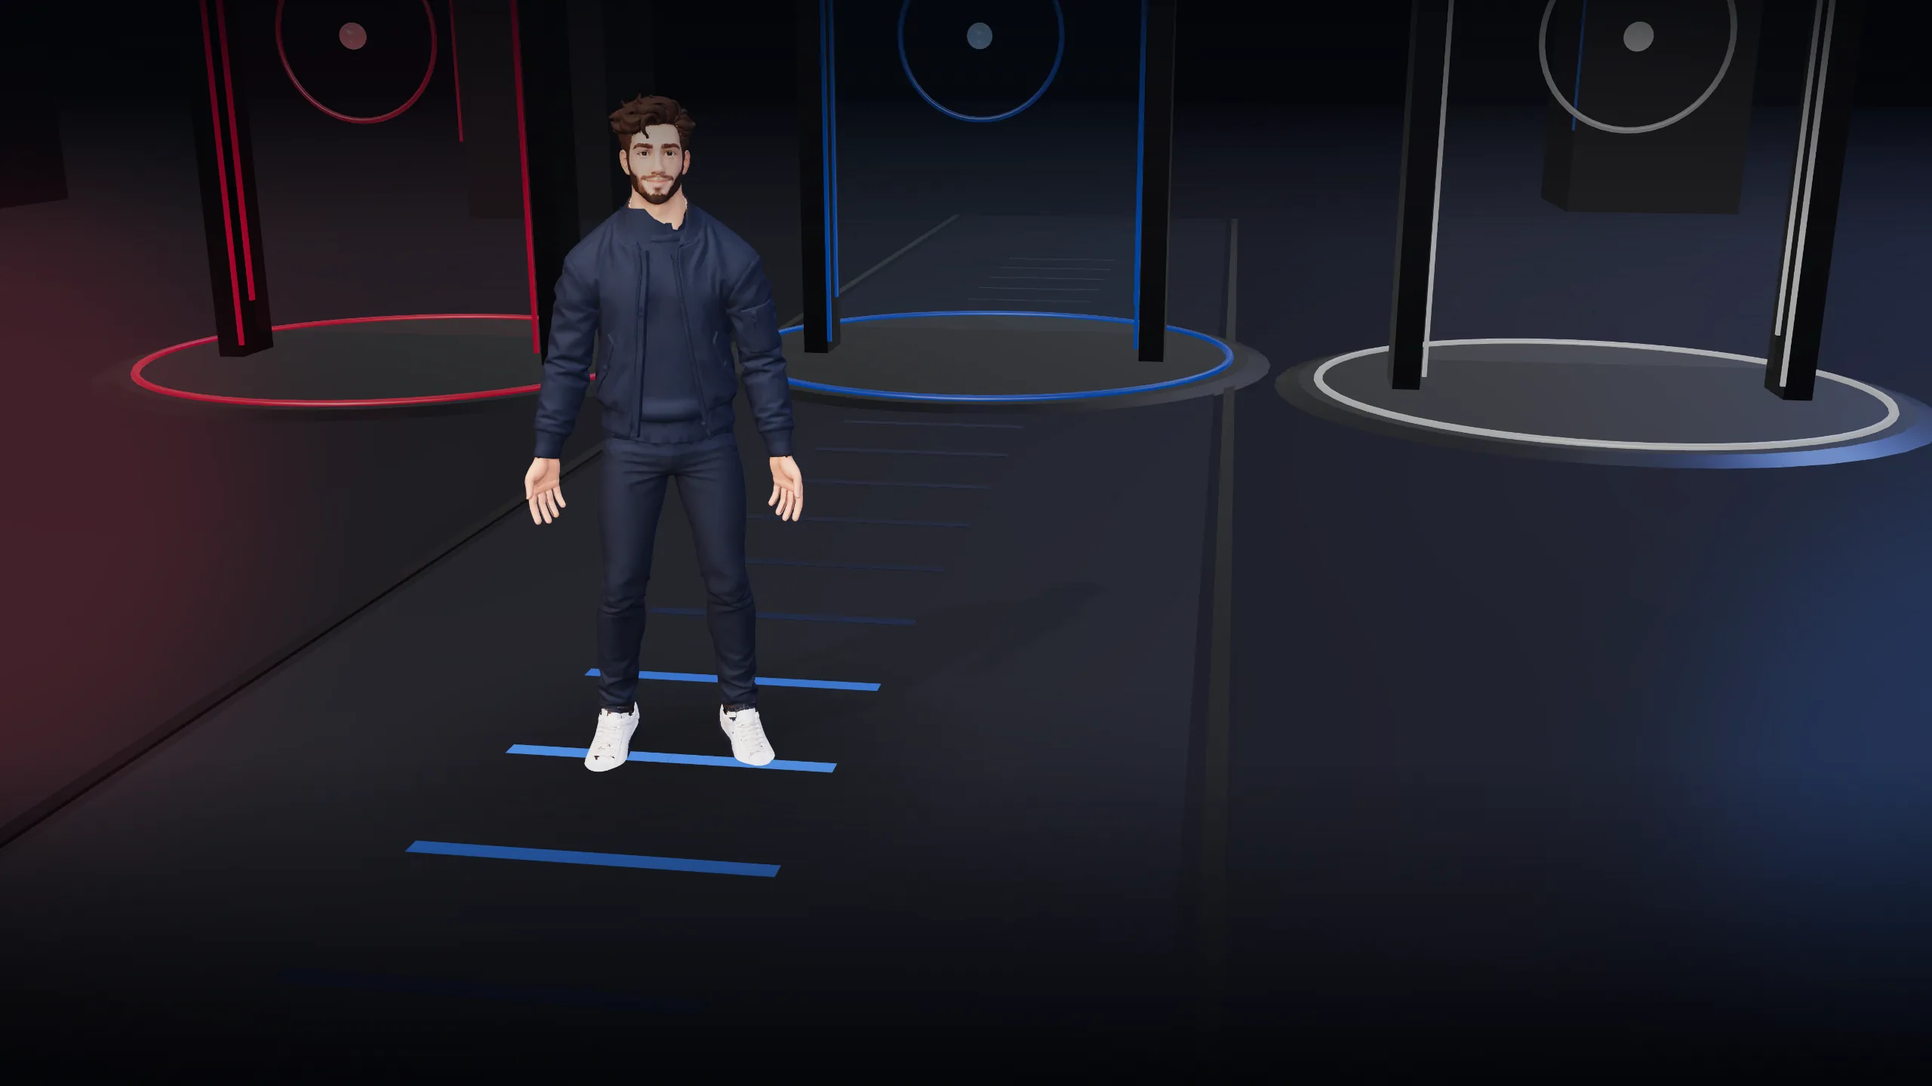
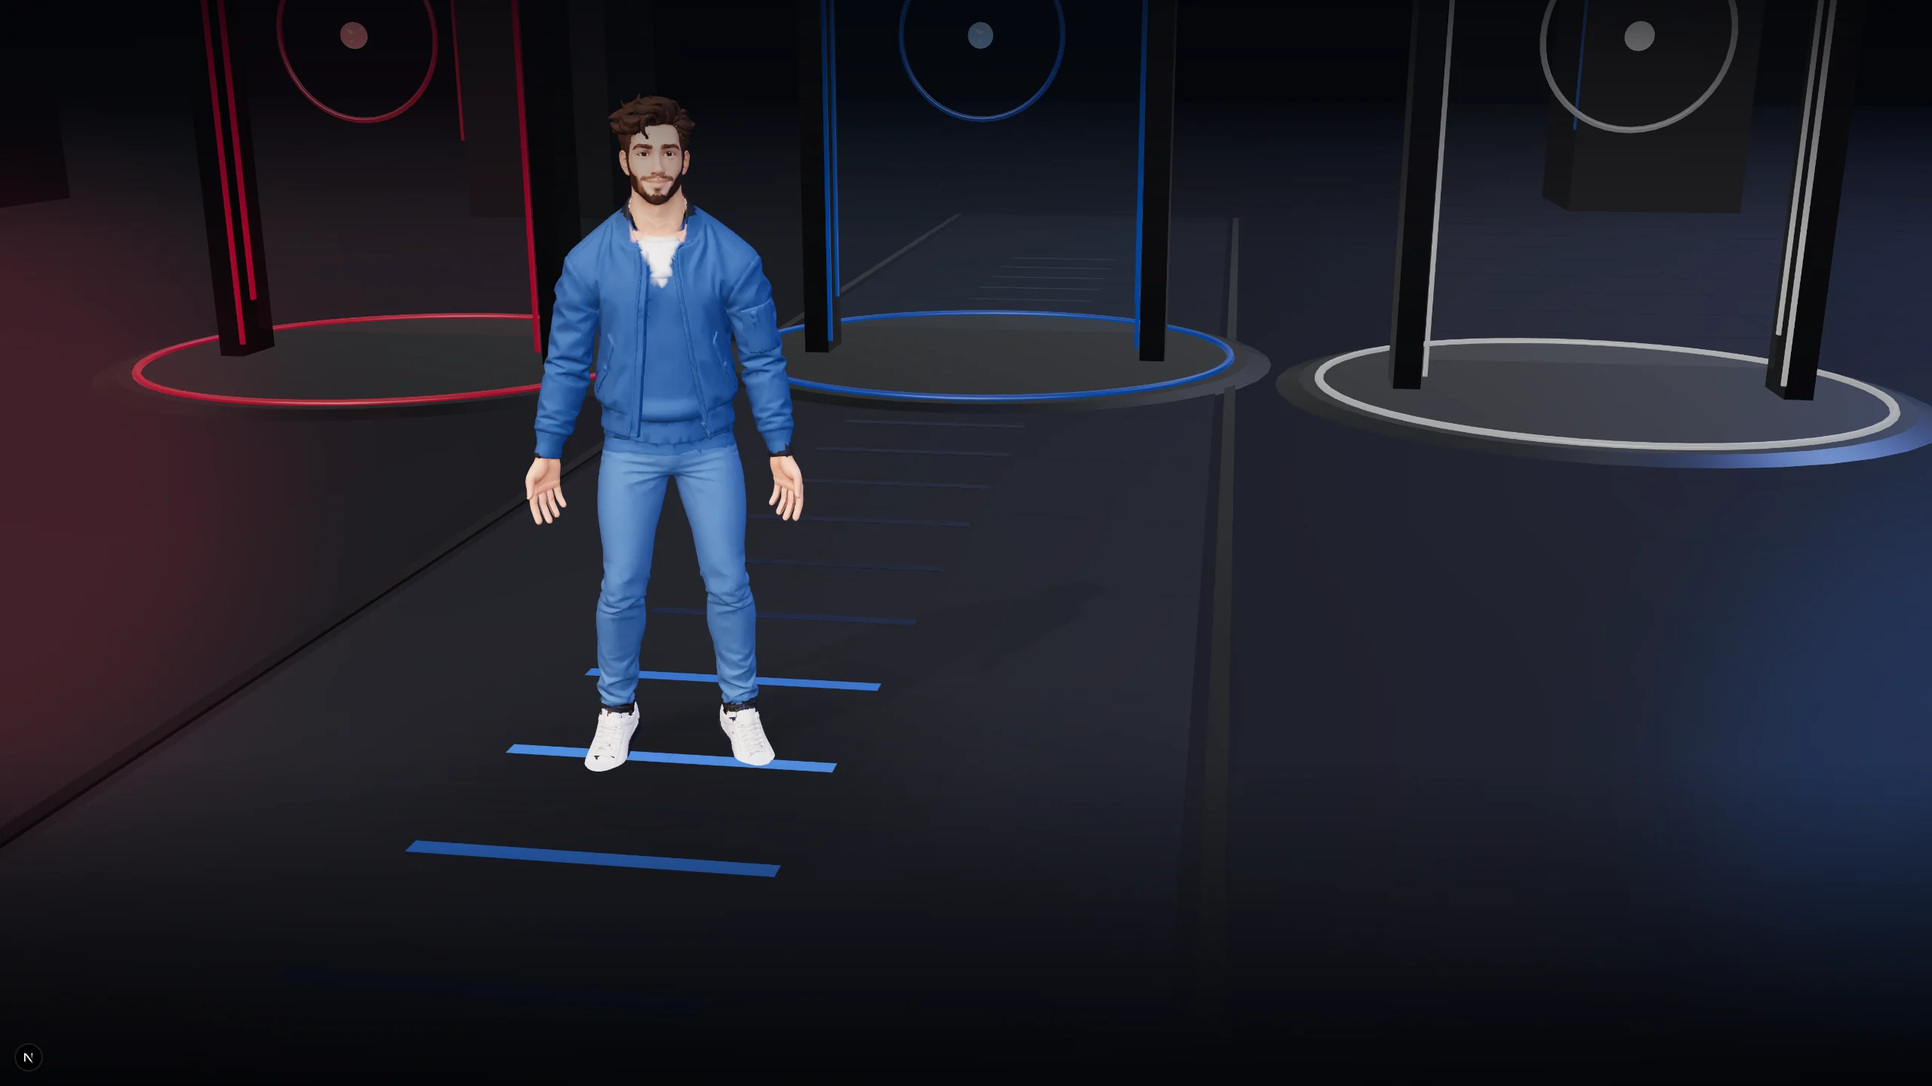
Recolour guide outfit and add white tee V

diff --git a/web/components/CinematicIntro.tsx b/web/components/CinematicIntro.tsx
@@ -232,36 +232,40 @@ function createIdleClip(root: THREE.Object3D, walkClip: THREE.AnimationClip): TH
   return new THREE.AnimationClip("student-idle", duration, tracks);
 }
 
-// The GLB's neckline seam is low-poly and jagged once the scrambled atlas is
-// replaced by flat materials. A narrow navy band gives the bomber a clean
-// mock-neck underlayer and covers that seam without changing the rig.
-function addCollarBand(model: THREE.Object3D): void {
-  const geometry = new THREE.CylinderGeometry(0.075, 0.09, 0.08, 32, 1, true);
-  const band = new THREE.Mesh(
-    geometry,
-    new THREE.MeshStandardMaterial({
-      color: 0x1c2638,
-      roughness: 0.9,
-      metalness: 0,
-      envMapIntensity: 0.35,
-      side: THREE.DoubleSide,
-      dithering: true,
-    }),
-  );
-  band.position.set(0, 1.44, 0.015);
-  band.castShadow = false;
-  band.receiveShadow = true;
-  band.name = "clean-bomber-collar";
-  model.add(band);
-}
+// Model geometry is stored in normalized units (-1..1) mapped onto 0..1.8 m,
+// so raw y converts to local/world y as (raw + 1) * 0.9 and raw x/z scale by
+// 0.9. The values in these helpers were measured directly from the GLB
+// position data so the shapes hug the real mesh instead of guessing.
+
+// The raw mesh has a 5-ish cm band around the neck base where the head skin
+// and the jacket collar interleave jaggedly (measured: red dips to raw y 0.633
+// while the collar peaks at 0.695). Any overlay tall enough to cover that band
+// reads as a turtleneck — the “jacket clubbed with neck” complaint. Instead,
+// the collar vertices in this band are tinted with the face skin tone
+// (#d99479) and feathered into the jacket, so the seam becomes a soft skin
+// transition into the collar below raw y 0.618 without a material-group edge.
+const NECK_SEAM_BAND = { y0: 0.618, y1: 0.718, halfWidth: 0.07 };
+
+// The jacket front only parts in a shallow V under the collar, so a separate
+// floating shirt mesh either hid behind the lapels or clipped through them.
+// Instead the jacket's own vertices are tinted white inside that V. A material
+// group split left a hard, triangular sawtooth edge that read as a tear in
+// close-up; blending the tint per vertex keeps the shirt edge soft while the
+// geometry still deforms with the rig. Raw-y bounds: a point at the sternum
+// widening to the neck.
+const TEE_V = { y0: 0.5, y1: 0.618, bottomHalfWidth: 0.012, topHalfWidth: 0.062 };
+const TEE_FEATHER = 0.012;
 
 // The source atlas is not a coherent garment layout: jacket triangles sample
 // hair, skin and knit-top islands, which is what produced the brown seam
 // “tears” and the dark flecks on the white top. Rather than keep chasing UVs,
 // the body clothing gets clean stylized materials. Head, hands and shoes keep
 // the original textured material so the face, hair, beard and skin detail stay.
-// The upper body is rendered as a clean navy bomber over a dark mock neck; the
-// neckline band hides the low-poly collar seam that the flat materials expose.
+// The upper body is rendered as a clean blue bomber with jeans in a lighter
+// denim blue. The neck seam is feathered with a vertex skin tint (NECK_SEAM_BAND)
+// so the collar reads as separate from the neck, and the jacket's V opening is
+// tinted white for the t-shirt (TEE_V). Both boundaries blend per vertex, so
+// they stay soft in close-up instead of following triangle edges.
 function installCleanClothing(model: THREE.Object3D): void {
   model.traverse((object) => {
     const mesh = object as THREE.Mesh;
@@ -330,6 +334,47 @@ function installCleanClothing(model: THREE.Object3D): void {
     }
     if (groups[1].length + groups[2].length === 0) return;
 
+    // Smooth white tee tint inside the V. The falloff is a few centimetres so
+    // the neckline reads as fabric in shadow, not a paint boundary.
+    const jacketColour = new THREE.Color(0x275285);
+    const teeColour = new THREE.Color(0xf1efe7);
+    const skinColour = new THREE.Color(0xd99479);
+    const vertexColour = new THREE.Color();
+    const colours = new Float32Array(position.count * 3);
+    for (let vertex = 0; vertex < position.count; vertex += 1) {
+      const x = position.getX(vertex);
+      const y = position.getY(vertex);
+      const z = position.getZ(vertex);
+      const taper = clamp((y - TEE_V.y0) / (TEE_V.y1 - TEE_V.y0));
+      const halfWidth =
+        TEE_V.bottomHalfWidth + (TEE_V.topHalfWidth - TEE_V.bottomHalfWidth) * taper;
+      const across = smoothstep(clamp((halfWidth - Math.abs(x)) / TEE_FEATHER));
+      const top = smoothstep(clamp((TEE_V.y1 - y) / 0.008));
+      const bottom = smoothstep(clamp((y - TEE_V.y0) / 0.008));
+      const front = z > 0.003 ? 1 : 0;
+      const teeMask = across * top * bottom * front;
+
+      // The neck band replaces the old flat-skin material group. Painting the
+      // collar vertices skin and feathering into the jacket removes the hard
+      // pink sawtooth that material boundaries left at the collar.
+      const skinAcross = smoothstep(
+        clamp((NECK_SEAM_BAND.halfWidth - Math.abs(x)) / 0.005),
+      );
+      const skinBottom = smoothstep(
+        clamp((y - (NECK_SEAM_BAND.y0 - 0.006)) / 0.006),
+      );
+      const skinTop = smoothstep(clamp((NECK_SEAM_BAND.y1 - y) / 0.006));
+      const skinFront = z > -0.005 ? 1 : 0;
+      const skinMask = skinAcross * skinBottom * skinTop * skinFront;
+
+      vertexColour
+        .copy(jacketColour)
+        .lerp(teeColour, teeMask)
+        .lerp(skinColour, skinMask);
+      vertexColour.toArray(colours, vertex * 3);
+    }
+    geometry.setAttribute("color", new THREE.BufferAttribute(colours, 3));
+
     const index = new Uint32Array(original.length);
     let cursor = 0;
     const starts: number[] = [];
@@ -342,7 +387,8 @@ function installCleanClothing(model: THREE.Object3D): void {
     });
 
     const jacket = new THREE.MeshStandardMaterial({
-      color: 0x1c2638,
+      color: 0xffffff,
+      vertexColors: true,
       roughness: 0.88,
       metalness: 0,
       envMapIntensity: 0.35,
@@ -350,14 +396,13 @@ function installCleanClothing(model: THREE.Object3D): void {
       dithering: true,
     });
     const pants = new THREE.MeshStandardMaterial({
-      color: 0x18202f,
+      color: 0x3f699c,
       roughness: 0.92,
       metalness: 0,
       envMapIntensity: 0.3,
       side: THREE.DoubleSide,
       dithering: true,
     });
-
     geometry.setIndex(new THREE.BufferAttribute(index, 1));
     geometry.clearGroups();
     groups.forEach((group, groupIndex) => {
@@ -568,7 +613,6 @@ export default function CinematicIntro({ onComplete }: Props) {
       scene.fog = new THREE.FogExp2(0x05060a, isMobile ? 0.034 : 0.029);
 
       const camera = new THREE.PerspectiveCamera(34, window.innerWidth / window.innerHeight, 0.04, 120);
-
       try {
         pmrem = new THREE.PMREMGenerator(renderer);
         const room = new RoomEnvironment();
@@ -949,7 +993,6 @@ export default function CinematicIntro({ onComplete }: Props) {
       });
 
       installCleanClothing(model);
-      addCollarBand(model);
 
       // Centre the model on its own feet before adding the turntable. Animation
       // still targets the skeleton; this root transform only affects framing.

diff --git a/docs/IMPLEMENTATION.md b/docs/IMPLEMENTATION.md
@@ -682,8 +682,8 @@ Each role is a real route: `/jobs/genai`, `/jobs/data`, `/jobs/uiux`. The homepa
 | Local files | `web/public/models/student/` |
 | Posters | `scene.webp` is the wide selector still used by the boot/static background; `portrait.webp` is a close-up reference render |
 | Mesh | 85,487 triangles; quantized; embedded WebP textures: 2048px basecolour, 1024px normal and metallic-roughness; shipped GLB 3,684,764 B |
-| Look | Bearded adult, warm-brown hair, clean navy bomber, darker navy trousers, clean mock-neck underlayer, white sneakers; no runtime glasses |
-| Shading | Runtime geometry split into three indexed material groups: original textured atlas (head, hair, hands, shoes), flat navy jacket/underlayer and darker navy trousers, plus a separate navy collar band. Textured material: `metalness: 0`, roughness `0.86`, normal scale `0.38`, environment intensity `0.42`; clothing materials are matte `MeshStandardMaterial` with dithering. The collar band covers the low-poly neckline seam. Clothing/face can now be tuned independently without re-authoring the atlas |
+| Look | Bearded adult, warm-brown hair, blue bomber over a white V-neck t-shirt, blue jeans, white sneakers; no runtime glasses |
+| Shading | Runtime geometry split into three indexed material groups: original textured atlas (head, hair, hands, shoes), a vertex-coloured clothing group (blue bomber plus the white t-shirt V and the feathered skin neck tint) and blue jeans. The tee and neck tint are per-vertex colour blends, not separate hard-edged material groups, so the collar and t-shirt boundaries stay soft in close-up. Textured material: `metalness: 0`, roughness `0.86`, normal scale `0.38`, environment intensity `0.42`; clothing materials are matte `MeshStandardMaterial` with dithering. Clothing/face can be tuned independently without re-authoring the atlas |
 | Motion | Walk (1.0 s) + run clips; breathing idle averages four walk poses to remove the stride, then layers a 5.6 s chest/head cycle; 1.8 m stride-matched walk; 0.55 s turn before travel |
 | Rotation | `student-turntable` group inside the character root; pointer drag in `selecting`; auto-rotate defaults **off** but can be enabled from the dock; turntable yaw is independent of skeleton animation and resets smoothly before walking |
 | Framing | The selector camera is a close stage shot: the full guide is about 60% of a 900px viewport, with the head below the top bar and the shoes above the bottom dock; the face fill follows the character so the face stays readable after the walk |
@@ -693,10 +693,11 @@ Each role is a real route: `/jobs/genai`, `/jobs/data`, `/jobs/uiux`. The homepa
 The guide is deliberately a stylized prototype, not a finished character. The source
 atlas has scrambled garment UV islands: jacket, knit top, hair and skin shared one texture,
 which produced brown “tears” and dark flecks when the atlas was used directly. The runtime
-now replaces the jacket, trousers and knit top with clean material groups, keeps the atlas
-for the face, hair, hands and sneakers, and adds a narrow collar band over the low-poly
-neckline seam. Because the cleaned atlas is only sampled by those remaining textured
-triangles, residual garment-island artifacts in the atlas are not rendered. The basecolour is embedded at 2048px so the closer selector framing has
+now replaces the jacket, trousers and knit top with clean materials: a blue bomber, blue
+jeans, a white t-shirt V and a feathered skin tint at the collar. The tint and tee are
+vertex-colour blends, so the low-poly neckline seam no longer reads as a hard collar band.
+Because the cleaned atlas is only sampled by those remaining textured triangles, residual
+garment-island artifacts in the atlas are not rendered. The basecolour is embedded at 2048px so the closer selector framing has
 enough facial detail; the supporting normal and metallic-roughness maps stay at 1024px to
 keep the GLB under 4 MB. Lighting was softened (key `1.32` desktop / `1.25` mobile, face fill
 `0.6` / `0.5`, exposure `0.98` / `0.94`) so the fair skin is less bright and less contrasty.
@@ -996,6 +997,8 @@ The live deployment at <https://jobhunt-hub-web.vercel.app> was rechecked after 
 Clean-clothing pass (2026-10-22, local production capture): `npm run build` passes. A local production build was checked at 1600×900 and 390×844. The jacket renders as clean navy fabric with no brown seam tears or white knit-top flecks, the sneakers are white again, and the softened key/face fill gives a fair, lower-contrast face. The `AUTO-ROTATE OFF` toggle reports `aria-pressed=false`; a still captured 4 seconds later shows no auto-rotation, and a pointer drag rotates the turntable to the side/back. A departure capture at 0.5 s, 1.2 s and 2.5 s shows the clean jacket from behind during the walk, with no visible collar detachment. The local `/`, `/jobs/genai`, `/jobs/data`, `/jobs/uiux` and `/api/status` routes all returned 200; local `/api/jobs?role=…` served the bundled fallback (`demo=true`, 14/14/396) rather than live counts. The shipped `student.glb` is 3,684,764 B with a 2048px basecolour and 1024px normal/roughness maps. The only console message was the existing favicon 404.
 
 Live verification after the push (2026-10-22, `0baecf8`): the deployment served the new `student.glb` (`Content-Length: 3,684,764`). The selector toggle read `AUTO-ROTATE OFF` with `aria-pressed=false`; a still captured 3.5 seconds later showed no auto-rotation, and a pointer drag turned the guide to the side/back. Desktop 1600×900 and mobile 390×844 captures showed the clean navy bomber, white sneakers and the lower-contrast face with no layout regression. The static/reduced-motion poster now serves the regenerated clean `scene.webp` (57,588 B), with `portrait.webp` at 25,482 B. `/api/jobs` returned GenAI **1,084**, Data Engineering **1,234** and UI/UX **1,280**, all `demo=false`; `/api/status` reported `configured=true`; `/`, `/jobs/genai`, `/jobs/data` and `/jobs/uiux` all returned 200. The only console message was the existing favicon 404.
+
+Outfit refresh (2026-10-22, local dev capture, pre-deployment commit): `npx tsc --noEmit` and `npm run build` pass. Local captures at 1280×800 and 2560×1440 show the blue bomber, blue jeans and a visible white V-neck t-shirt. The collar and t-shirt boundaries are per-vertex colour blends, so there is no pink material sawtooth and no torn-looking edge in close-up. The dock read `AUTO-ROTATE OFF` after a 3 s hold, and a pointer drag rotated the guide to the side and back. No page errors were reported. Local `/api/jobs` served the bundled fallback rather than live counts, so live counts are re-verified after deployment. The regenerated posters are `scene.webp` (74,924 B) and `portrait.webp` (38,112 B).
 
 The refresh panel counts elapsed time from the current request rather than the previous run (`357b5ff`), and `/api/jobs` reads the `data` branch on every cache miss so a published scrape is not hidden by the origin cache (`5264079`).
 

diff --git a/docs/CODE_MAP.md b/docs/CODE_MAP.md
@@ -195,7 +195,7 @@ jobhunt-hub/
 |---|---|---|---|
 | Dynamic intro loader | `web/components/IntroPage.tsx` | `CinematicIntro` dynamic import, `IntroBoot` loading | Keeps the first paint free of HI and role cards |
 | Boot screen | `web/components/IntroBoot.tsx` | `IntroBoot` | Brand, loader, no headline, no role cards |
-| Cinematic scene | `web/components/CinematicIntro.tsx` | `CinematicIntro`, `Phase`, `SceneController`, `createIdleClip`, `installCleanClothing`, `addCollarBand`, `travelProfile`, `travelDuration`, `applyPhase`, `updateCharacter`, `updateTurntable`, `updateCamera`, `onPointerDown`, `onPointerMove` | Greeting, pullback, path, turn, walk, gates, clean clothing material split, collar band, selection, turntable drag/optional auto-rotate, departure |
+| Cinematic scene | `web/components/CinematicIntro.tsx` | `CinematicIntro`, `Phase`, `SceneController`, `createIdleClip`, `installCleanClothing`, `NECK_SEAM_BAND`, `TEE_V`, `travelProfile`, `travelDuration`, `applyPhase`, `updateCharacter`, `updateTurntable`, `updateCamera`, `onPointerDown`, `onPointerMove` | Greeting, pullback, path, turn, walk, gates, clean clothing material split, vertex-tinted neck seam and white tee V, selection, turntable drag/optional auto-rotate, departure |
 | Static fallback | `web/components/StaticIntro.tsx` | `StaticIntro`, `STATIC_GREETING_MS` | `HI.` for 4 s, then the three destinations; no canvas |
 | Role cards | `web/components/RoleDestinations.tsx` | `RoleDestinations` | Accessible buttons for GenAI / Data / UI/UX |
 | Dashboard controller | `web/components/JobDashboard.tsx` | `JobDashboard`, `PAGE_SIZE`, `triggerRefresh`, `switchRole`, `resetFilters`, `filtered`, `shownJobs` | Route data, filters, URL sync, pagination, role switch, refresh state |
@@ -686,12 +686,12 @@ Seed fallback: `web/data/genai.json`, `web/data/data.json`, `web/data/uiux.json`
 | Intro greeting length | `web/components/CinematicIntro.tsx` (`GREETING_MS`) | static fallback `STATIC_GREETING_MS` |
 | Pullback / walk timing | `CinematicIntro.tsx` (`REVEAL_SECONDS`, `WALK_SPEED`, `TURN_DELAY`, `SELECTOR_Z`) | `travelDuration()`, `travelProfile()` |
 | Character rotation | `CinematicIntro.tsx` (`AUTO_ROTATE_SPEED`, `AUTO_ROTATE_DELAY`, `DRAG_SENSITIVITY`, `autoRotate`/`autoRotateRef`, `updateTurntable()`) | `.intro-canvas.is-interactive`, `.intro-rotate-toggle` (`aria-pressed` starts `false`), `onPointer*` handlers |
-| Character clothing / face materials | `CinematicIntro.tsx` (`installCleanClothing()`, `addCollarBand()`, jacket/pants material colours, textured material roughness/normal scale) | `student.glb`, `ATTRIBUTION.txt`, lighting values in the same component |
+| Character clothing / face materials | `CinematicIntro.tsx` (`installCleanClothing()`, `NECK_SEAM_BAND`, `TEE_V`, jacket/pants/tee/skin vertex colours, textured material roughness/normal scale) | `student.glb`, `ATTRIBUTION.txt`, lighting values in the same component |
 | Role card content | `web/lib/roles.ts` | `RoleDestinations.tsx`, dashboard labels |
 | Intro copy / phase UI | `CinematicIntro.tsx` render block | `web/app/globals.css` (`.intro-canvas`, `.intro-rotate-toggle`) |
 | Boot screen | `web/components/IntroBoot.tsx` | `.intro-boot*` styles |
 | Static / reduced-motion fallback | `web/components/StaticIntro.tsx` | `.static-*` styles |
-| 3D model | `web/public/models/student/student.glb` | `MODEL_URL`, `installCleanClothing()`, `addCollarBand()`, turntable setup, `layout.tsx` preload, `ATTRIBUTION.txt` |
+| 3D model | `web/public/models/student/student.glb` | `MODEL_URL`, `installCleanClothing()`, `NECK_SEAM_BAND`, `TEE_V`, turntable setup, `layout.tsx` preload, `ATTRIBUTION.txt` |
 | Palette / spacing | `web/app/globals.css` `:root` | component class names |
 | Dashboard filters | `web/components/Filters.tsx` + `JobDashboard.tsx` `filtered` | `web/lib/utils.ts` |
 | Job card fields | `web/components/JobCard.tsx` | `web/lib/types.ts`, `export.py` |

diff --git a/docs/ARCHITECTURE.md b/docs/ARCHITECTURE.md
@@ -496,7 +496,7 @@ No paid domain, database, proxy, or API subscription is required for the core fl
 6. **Legacy `first_seen` values.** Pre-change jobs may show the portal posted date as “first seen” because no earlier scrape history was stored.
 7. **Retention is 21 days.** A job that disappears from the portals can remain on the board for up to 21 days.
 8. **Terms of service.** Scraping public pages may be restricted by individual portals; this project is intended for personal, non-commercial use.
-9. **The 3D guide is a prototype.** The rigged character is a stylized CC0 base (a bearded adult in a technical bomber jacket with a dark mock-neck underlayer) with no facial blendshapes, eye rig, lip-sync or motion capture. Its walk/run clips are the only shipped animation, and the close-up is staged to avoid uncanny detail the asset cannot support. The scrambled garment atlas is replaced at runtime by clean navy clothing groups while the head, hair, hands and sneakers keep the original texture; it is still a modified stock asset, not a bespoke character.
+9. **The 3D guide is a prototype.** The rigged character is a stylized CC0 base (a bearded adult in a blue bomber over a white V-neck t-shirt and blue jeans) with no facial blendshapes, eye rig, lip-sync or motion capture. Its walk/run clips are the only shipped animation, and the close-up is staged to avoid uncanny detail the asset cannot support. The scrambled garment atlas is replaced at runtime by clean blue clothing groups, with the neck tint and t-shirt V blended per vertex, while the head, hair, hands and sneakers keep the original texture; it is still a modified stock asset, not a bespoke character.
 10. **The cinematic is not required.** Reduced-motion, WebGL failure and model failure all fall back to a static selector; jobs are never blocked behind the animation.
 
 ---

diff --git a/README.md b/README.md
@@ -240,10 +240,11 @@ The guide is a **stylized, rigged CC0 “Casual Man” base by Grab3D**, optimiz
 web. It was simplified from 244,257 to 85,487 triangles. The basecolour atlas is 2048px
 and the normal and metallic-roughness maps are 1024px, all WebP. The source atlas has
 scrambled garment UV islands, so the runtime splits the body geometry into clean material
-groups: a flat navy bomber, darker navy trousers and a clean mock-neck underlayer. Head,
-hair, beard, hands and white sneakers keep the original textured material. A narrow navy
-collar band covers the low-poly neckline seam, and the textured material uses a matte
-finish (`metalness: 0`, roughness `0.86`, normal scale `0.38`, environment intensity
+groups: a blue bomber, blue jeans, a white V-neck t-shirt and a feathered skin tint around
+the neck. Head, hair, beard, hands and white sneakers keep the original textured material.
+The neck seam and t-shirt neckline are blended per vertex, so the collar sits below the
+neck with a soft transition instead of a hard triangle edge. The textured material uses a
+matte finish (`metalness: 0`, roughness `0.86`, normal scale `0.38`, environment intensity
 `0.42`). The face fill and key light were softened so the fair skin reads evenly rather
 than glowing.
 
